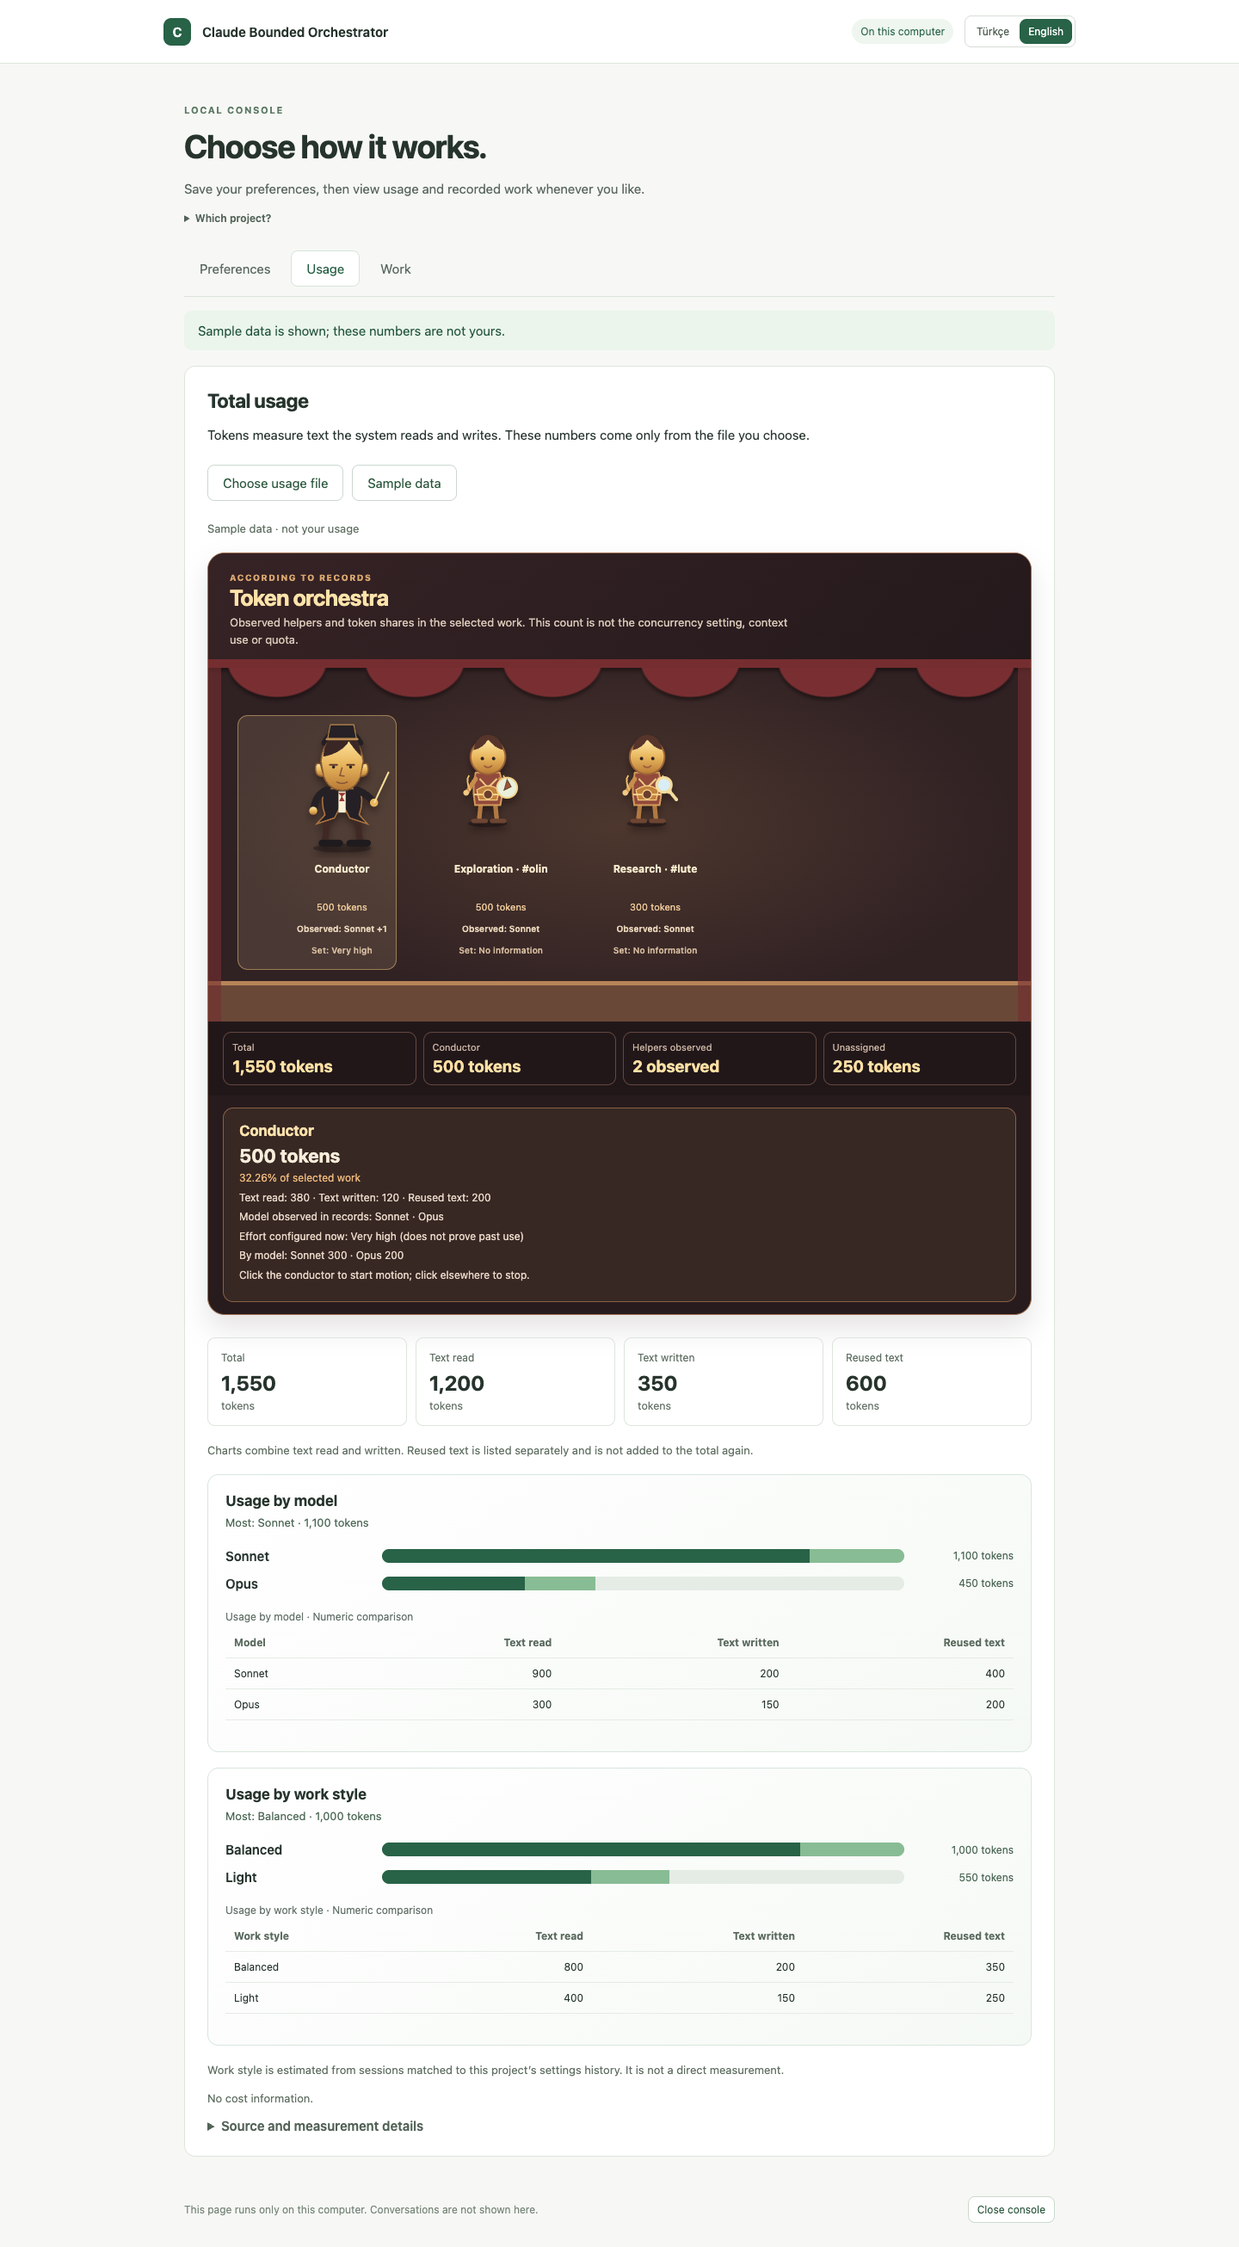
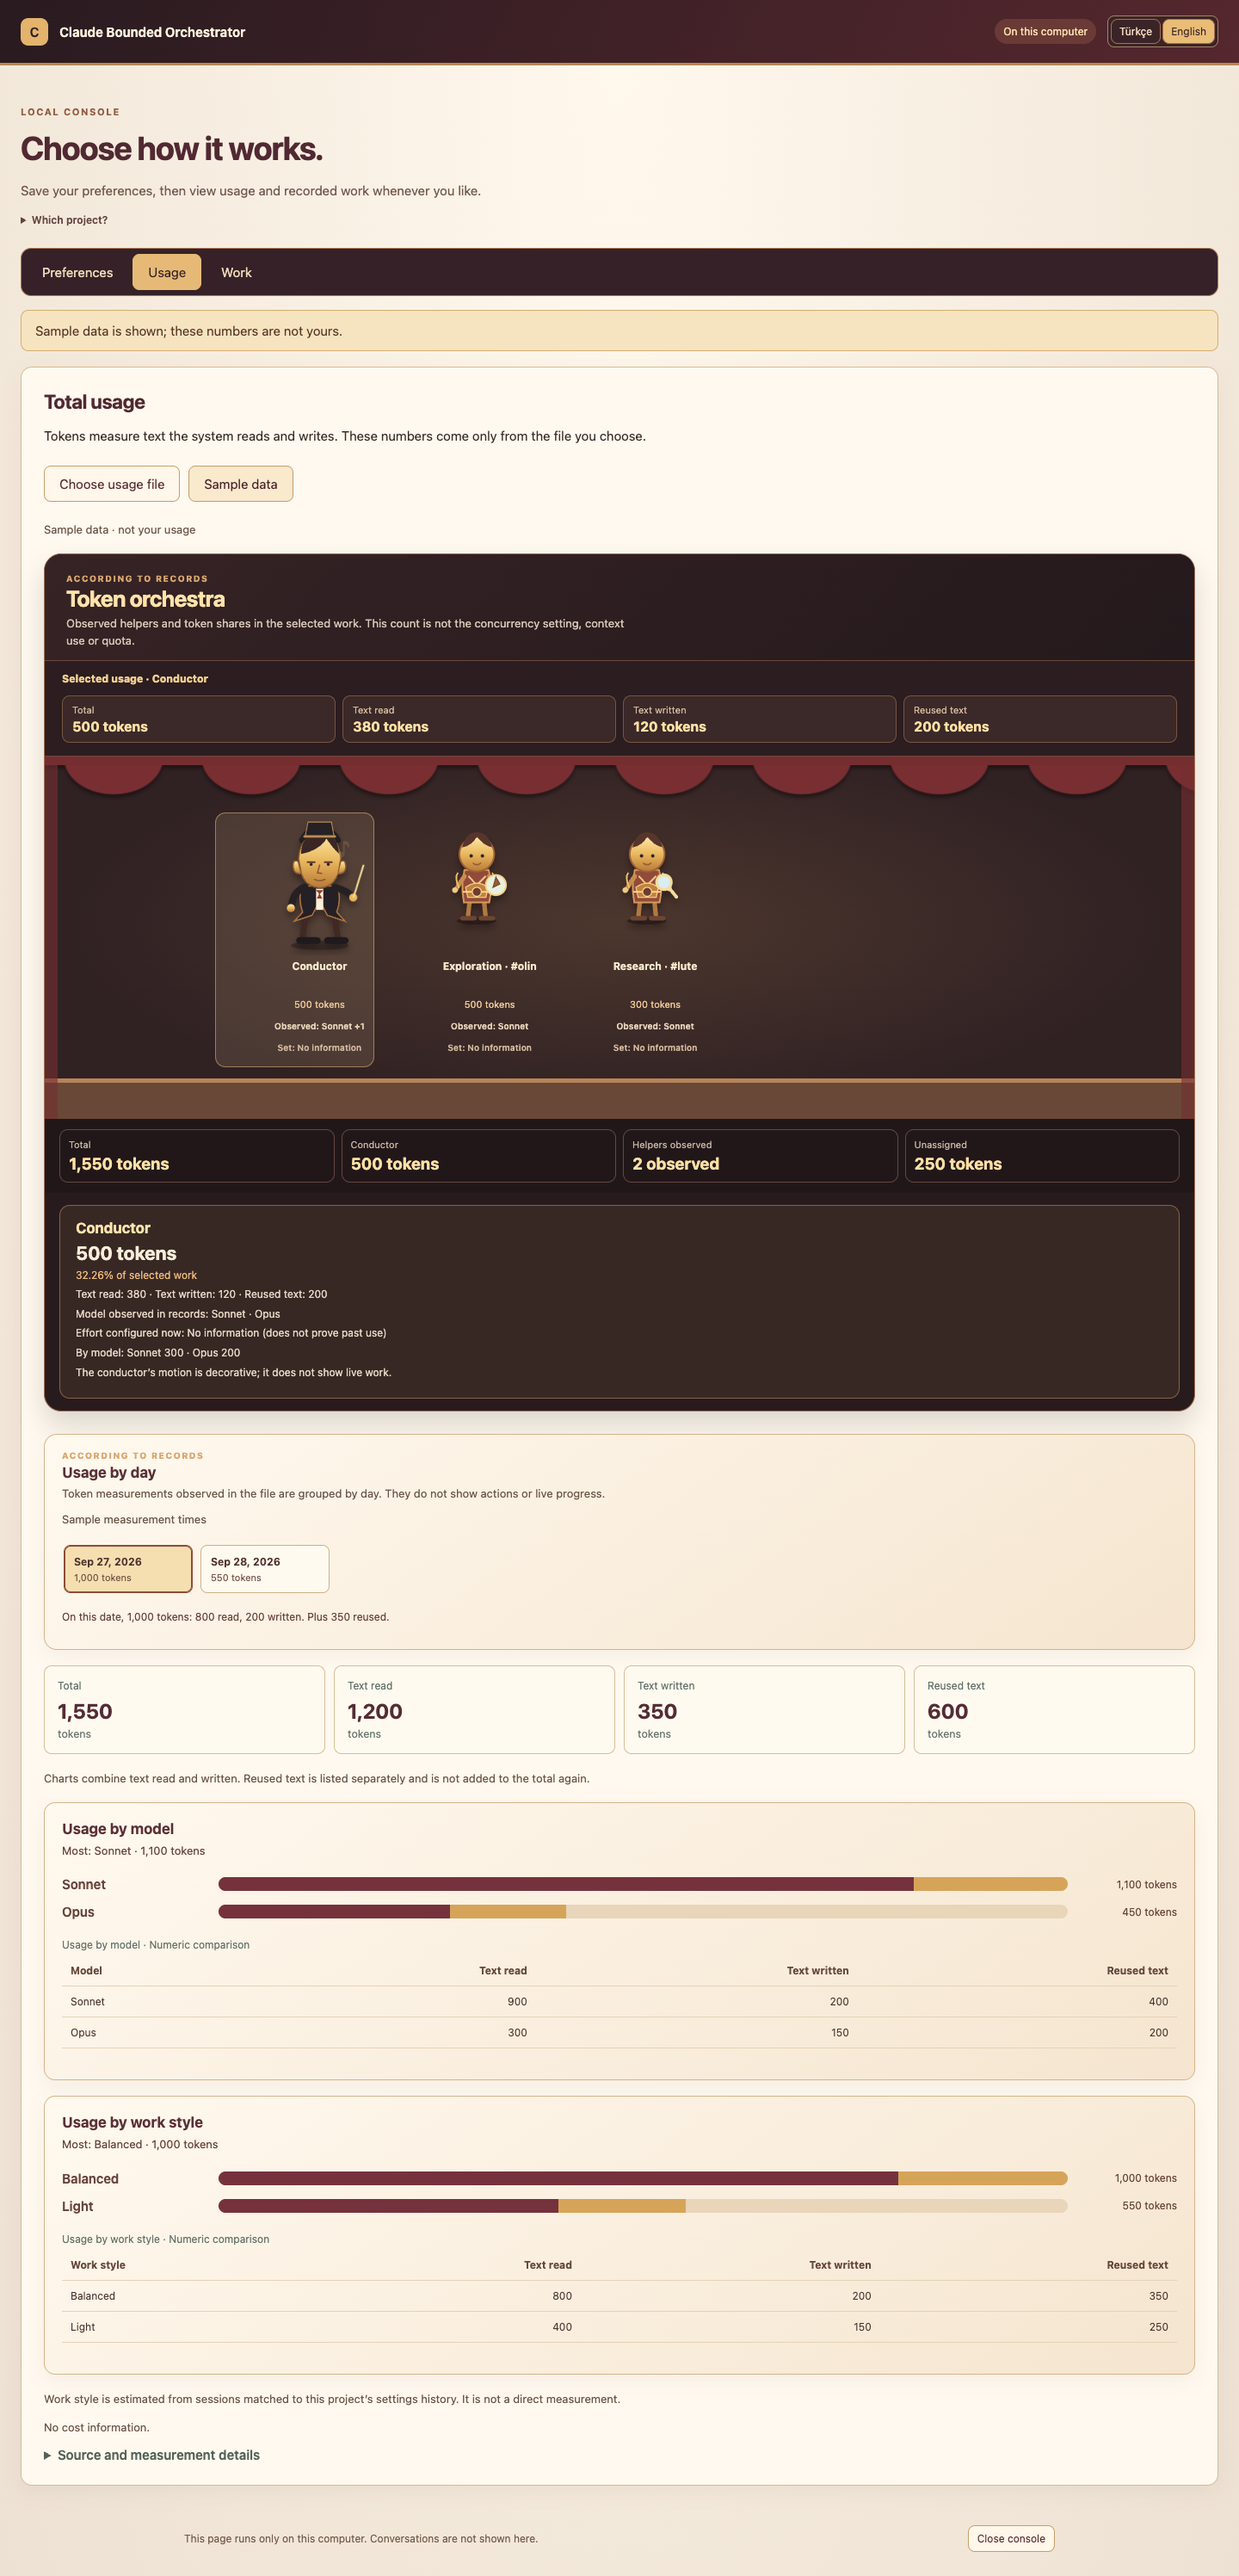
Refresh Claude README orchestra visuals and console screenshots

diff --git a/README.tr.md b/README.tr.md
@@ -1,7 +1,7 @@
 [English](README.md) · [Türkçe](README.tr.md)
 
 <p align="center">
-  <img src="docs/assets/cover-tr.svg" alt="Claude Bounded Orchestrator için sıcak renkli orkestra sahnesinde şef ve farklı yardımcı karakterleri" width="100%">
+  <img src="docs/assets/cover-tr.svg" alt="Claude Code ekip kurulumu: tek şef, farklı uzmanlar, değişiklik önizlemesi ve isteğe bağlı OTLP kullanımı" width="100%">
 </p>
 
 # Claude Bounded Orchestrator
@@ -12,6 +12,8 @@
 **Claude Code için uzman ekibini yerel tarayıcı sayfasından kurun.**
 
 İsteğinizi yine normal şekilde anlatırsınız. Ana Claude oturumu sizinle konuşur ve işleri düzenler; verilen işleri yardımcılar yapar. Tarayıcıda ayarları ve geçmiş kullanımı da görürsünüz.
+
+![Her uzman için görev ve Claude modeli seçin; isteğe bağlı geçmiş kullanımı okuyun](docs/assets/team-guide-tr.svg)
 
 ## Dört adımda kurulum
 
@@ -35,15 +37,28 @@ python3 scripts/configure.py /projenizin/tam/yolu
 
 Ekibi daha sonra değiştirmek için başlatıcıyı yeniden açıp (Linux'ta komutu yineleyip) **Kaydet** düğmesini kullanın. Ayarlar projeye hemen yazılır; silip yeniden kurmanız gerekmez. Açık Claude Code oturumunun yeni ayarları kullanması için oturumu yeniden açmanız gerekebilir. Kurulum açılmazsa [Mac/Linux](INSTALL-MACOS.md) veya [Windows](INSTALL-WINDOWS.md) rehberine bakın.
 
-## 8 saniyelik hareketli önizleme
+## Yerel konsolun içinde
+
+**Tercihler — ekibinizi planlayın.** Bir iş taslağı ve çalışma yoğunluğu seçin; değişiklikleri kontrol etmeden önce her yardımcının görevini, Claude modelini ve düşünme düzeyini ayarlayın.
+
+![İş taslaklarını ve planlanan uzman orkestrasını gösteren güncel Claude Tercihler ekranı](docs/assets/preferences-tr.png)
+
+*Çalışan Claude konsolundan, boş bir geçici projede alındı. Bunlar henüz kaydedilmemiş kurulum seçimleridir.*
+
+**Kullanım — geçmiş kayıtları inceleyin.** Açıkça sağladığınız OTLP dosyasını yükleyin veya grafik ve gözlemlenen orkestrayı incelemek için yerleşik örneği açın.
+
+![Sentetik örnek verileri etiketleriyle gösteren güncel Claude Kullanım ekranı](docs/assets/console-tr.png)
+
+*Çalışan Claude konsolundan alındı. Yerleşik sentetik örnek veridir; kişisel kullanım, canlı ajan etkinliği veya hesap kotası göstermez.*
+
+<details>
+<summary>Ortak ailenin 8 saniyelik önizlemesini izleyin</summary>
 
 <p><img src="docs/assets/bounded-orchestrator-intro-8s.gif" alt="Şef ve dört yardımcıyla örnek Codex orkestrasının hareketli görüntüsü" width="480"></p>
 
 Sessizdir; Türkçe başlıklar içerir. Ortak aile tanıtımında örnek Codex ekranı vardır; Claude Code kaydı veya canlı veri değildir. [Orijinal MP4 dosyasını indirin](https://raw.githubusercontent.com/metapak/claude-bounded-orchestrator/main/docs/assets/bounded-orchestrator-intro-8s.mp4).
 
-![Yerel konsolun Türkçe Kullanım ekranında temizlenmiş yerleşik örnek veriler ve üç çizim karakteri](docs/assets/console-tr.png)
-
-*Güncel Kullanım ekranının temsili örneği. Yerleşik temizlenmiş örnek veriler kullanılır; değerler sizin proje ayarlarınız veya kullanımınız değildir.*
+</details>
 
 Linux'ta aynı tarayıcı sayfası yukarıdaki kısa komutla açılır; bu pakette çift tıklamalı Linux başlatıcısı yoktur. Açılış sorunları ve elle kurulum için [macOS/Linux rehberine](INSTALL-MACOS.md) veya [Windows rehberine](INSTALL-WINDOWS.md) bakın. Depo testleri çift tıklamayla açılışı ve canlı Claude Code oturumunu doğrulamaz.
 

diff --git a/README.md b/README.md
@@ -1,7 +1,7 @@
 [English](README.md) · [Türkçe](README.tr.md)
 
 <p align="center">
-  <img src="docs/assets/cover-en.svg" alt="Warm orchestra-stage illustration for Claude Bounded Orchestrator with a conductor and distinct helper characters" width="100%">
+  <img src="docs/assets/cover-en.svg" alt="Claude Code team setup: one chief, distinct specialists, reviewed changes and opt-in OTLP usage" width="100%">
 </p>
 
 # Claude Bounded Orchestrator
@@ -12,6 +12,8 @@
 **Set up a specialist team for Claude Code from a local browser page.**
 
 You still describe the work normally. The main Claude session coordinates and speaks with you; helpers do the assigned work. The browser also shows settings and past usage.
+
+![Choose duties and Claude models for each specialist, then read opt-in past usage](docs/assets/team-guide-en.svg)
 
 ## Install in four steps
 
@@ -35,15 +37,28 @@ python3 scripts/configure.py /absolute/path/to/your-project
 
 To change the team later, open the launcher again (or repeat the Linux command) and use **Save**. It updates the project settings without uninstalling. An already-open Claude Code session may need to be reopened before it uses the changes. If setup does not open, see the [Mac/Linux](INSTALL-MACOS.md) or [Windows](INSTALL-WINDOWS.md) guide.
 
-## Watch the 8-second preview
+## Inside the local console
 
-<p><img src="docs/assets/bounded-orchestrator-intro-8s.gif" alt="Animated sample Codex orchestra with conductor and four helpers" width="480"></p>
+**Preferences — plan your team.** Choose a task draft and work intensity, then set each helper’s duty, Claude model and effort before checking changes.
+
+![Current Claude Preferences screen with task drafts and a planned specialist orchestra](docs/assets/preferences-en.png)
+
+*Captured from the running Claude console using an empty disposable project. These are unsaved setup choices.*
+
+**Usage — inspect past records.** Import your own explicitly supplied OTLP export, or use the built-in sample to explore the charts and observed orchestra.
+
+![Current Claude Usage screen showing labeled synthetic sample data](docs/assets/console-en.png)
+
+*Captured from the running Claude console. Built-in synthetic sample data; no personal usage, live agent activity, or account quota is shown.*
+
+<details>
+<summary>Watch the shared 8-second family preview</summary>
+
+<p><img src="docs/assets/bounded-orchestrator-intro-8s.gif" alt="Shared Codex sample preview with a conductor and four helpers" width="480"></p>
 
 Silent, with Turkish titles. This shared-family preview uses sample Codex UI, not a Claude Code recording or live data. [Download the original MP4](https://raw.githubusercontent.com/metapak/claude-bounded-orchestrator/main/docs/assets/bounded-orchestrator-intro-8s.mp4).
 
-![Current Usage screen in English showing sanitized built-in sample data and an orchestra of three illustrated actors](docs/assets/console-en.png)
-
-*Illustrative demo of the current Usage screen. It uses built-in sanitized sample data, not your project settings or usage.*
+</details>
 
 Linux uses the short command above for the same browser page; it has no double-click launcher here. The [macOS/Linux guide](INSTALL-MACOS.md) and [Windows guide](INSTALL-WINDOWS.md) cover opening problems and manual setup. Native double-click launch and a live Claude Code session have not been verified by repository tests.
 
